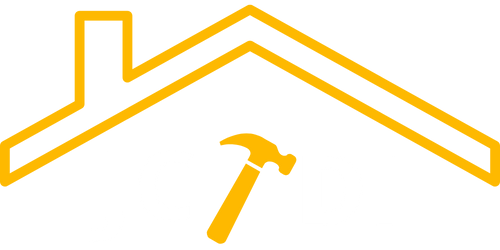
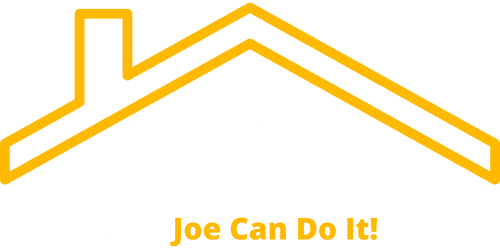
added text effect and removed unnecessary items

diff --git a/index.html b/index.html
@@ -55,7 +55,7 @@
           <ul>
             
             <li><a class="nav-link scrollto" href="#hero" class="active">Home</a></li>
-            <li><a class="nav-link scrollto" href="#about">About</a></li>
+            <!-- <li><a class="nav-link scrollto" href="#about">About</a></li> -->
             <li><a class="nav-link scrollto" href="#services">Services</a></li>
             <li><a class="nav-link scrollto" href="#projects">Projects</a></li>
             <!-- <li class="dropdown"><a href="#"><span>Dropdown</span> <i
@@ -92,10 +92,10 @@
         <div class="container">
           <div class="row justify-content-center">
             <div class="col-lg-6 text-center">
-              <h2 data-aos="fade-down">Welcome to <span>JCDI</span></h2>
-              <p data-aos="fade-up">Here at JCDI, we believe anything is possible, especially when it comes to your
+              <h2 id ="company-name" data-aos="fade-down">Joe Can Do It</h2>
+              <p data-aos="fade-up">At JCDI, we believe anything is possible, especially when it comes to your
                 outdated, 1980s themed kitchen or bathroom. Share with us your vision, and watch us manifest your custom
-                dream home, one space at a time.</p>
+                dream home, one space at a time!</p>
               <!-- <a data-aos="fade-up" data-aos-delay="200" h  ref="#get-started" class="btn-get-started">Get Started</a> -->
             </div>
           </div>
@@ -126,7 +126,7 @@
     <main id="main">
 
       <!-- ======= About Section ======= -->
-    <section id="about" class="about">
+    <!-- <section id="about" class="about">
       <div class="container" data-aos="fade-up">
 
         <div class="row position-relative">
@@ -134,7 +134,7 @@
           <div class="col-lg-7 about-img" style="background-image: url(assets/img/about.jpg);"></div>
 
           <div class="col-lg-7">
-            <h2>Consequatur eius et magnam</h2>
+            <h2>About Us</h2>
             <div class="our-story">
               <h4>Est 1988</h4>
               <h3>Our Story</h3>
@@ -156,7 +156,7 @@
         </div>
 
       </div>
-    </section>
+    </section> -->
     <!-- End About Section -->
 
       <!-- ======= Get Started Section ======= -->
@@ -332,8 +332,8 @@
                 <h3>Nesciunt Mete</h3>
                 <p>Provident nihil minus qui consequatur non omnis maiores. Eos accusantium minus dolores iure
                   perferendis tempore et consequatur.</p>
-                <a href="service-details.html" class="readmore stretched-link">Learn more <i
-                    class="bi bi-arrow-right"></i></a>
+                <!-- <a href="service-details.html" class="readmore stretched-link">Learn more <i
+                    class="bi bi-arrow-right"></i></a> -->
               </div>
             </div><!-- End Service Item -->
 
@@ -345,8 +345,8 @@
                 <h3>Eosle Commodi</h3>
                 <p>Ut autem aut autem non a. Sint sint sit facilis nam iusto sint. Libero corrupti neque eum hic non ut
                   nesciunt dolorem.</p>
-                <a href="service-details.html" class="readmore stretched-link">Learn more <i
-                    class="bi bi-arrow-right"></i></a>
+                <!-- <a href="service-details.html" class="readmore stretched-link">Learn more <i
+                    class="bi bi-arrow-right"></i></a> -->
               </div>
             </div><!-- End Service Item -->
 
@@ -358,8 +358,8 @@
                 <h3>Ledo Markt</h3>
                 <p>Ut excepturi voluptatem nisi sed. Quidem fuga consequatur. Minus ea aut. Vel qui id voluptas adipisci
                   eos earum corrupti.</p>
-                <a href="service-details.html" class="readmore stretched-link">Learn more <i
-                    class="bi bi-arrow-right"></i></a>
+                <!-- <a href="service-details.html" class="readmore stretched-link">Learn more <i
+                    class="bi bi-arrow-right"></i></a> -->
               </div>
             </div><!-- End Service Item -->
 
@@ -371,8 +371,8 @@
                 <h3>Asperiores Commodit</h3>
                 <p>Non et temporibus minus omnis sed dolor esse consequatur. Cupiditate sed error ea fuga sit provident
                   adipisci neque.</p>
-                <a href="service-details.html" class="readmore stretched-link">Learn more <i
-                    class="bi bi-arrow-right"></i></a>
+                <!-- <a href="service-details.html" class="readmore stretched-link">Learn more <i
+                    class="bi bi-arrow-right"></i></a> -->
               </div>
             </div><!-- End Service Item -->
 
@@ -384,8 +384,8 @@
                 <h3>Velit Doloremque</h3>
                 <p>Cumque et suscipit saepe. Est maiores autem enim facilis ut aut ipsam corporis aut. Sed animi at
                   autem alias eius labore.</p>
-                <a href="service-details.html" class="readmore stretched-link">Learn more <i
-                    class="bi bi-arrow-right"></i></a>
+                <!-- <a href="service-details.html" class="readmore stretched-link">Learn more <i
+                    class="bi bi-arrow-right"></i></a> -->
               </div>
             </div><!-- End Service Item -->
 
@@ -397,8 +397,8 @@
                 <h3>Dolori Architecto</h3>
                 <p>Hic molestias ea quibusdam eos. Fugiat enim doloremque aut neque non et debitis iure. Corrupti
                   recusandae ducimus enim.</p>
-                <a href="service-details.html" class="readmore stretched-link">Learn more <i
-                    class="bi bi-arrow-right"></i></a>
+                <!-- <a href="service-details.html" class="readmore stretched-link">Learn more <i
+                    class="bi bi-arrow-right"></i></a> -->
               </div>
             </div><!-- End Service Item -->
 

diff --git a/assets/css/main.css b/assets/css/main.css
@@ -55,6 +55,29 @@ h5,
 h6 {
   font-family: var(--font-primary);
 }
+
+#company-name {
+  padding: 64px;
+  background: linear-gradient(to right, hsl(0, 0%, 30%) 0, hsl(0, 0%, 100%) 10%, hsl(0, 0%, 30%) 20%);
+  -webkit-background-clip: text;
+  -webkit-text-fill-color: transparent;
+  animation: shine 3s infinite linear;
+  letter-spacing: 7px;
+  -webkit-text-stroke: 1px #ffc732;
+}
+
+@keyframes shine {
+  0% {
+    background-position: 0;
+  }
+  60% {
+    background-position: 600px;
+  }
+  100% {
+    background-position: 600px;
+  }
+}
+
 /*--------------------------------------------------------------
 # Header
 --------------------------------------------------------------*/
@@ -2635,7 +2658,7 @@ h2 span {
 }
 
 #jcdi-logo-footer {
-  height: 60px;
+  height: 150px;
 }
 
 .footer:before {
